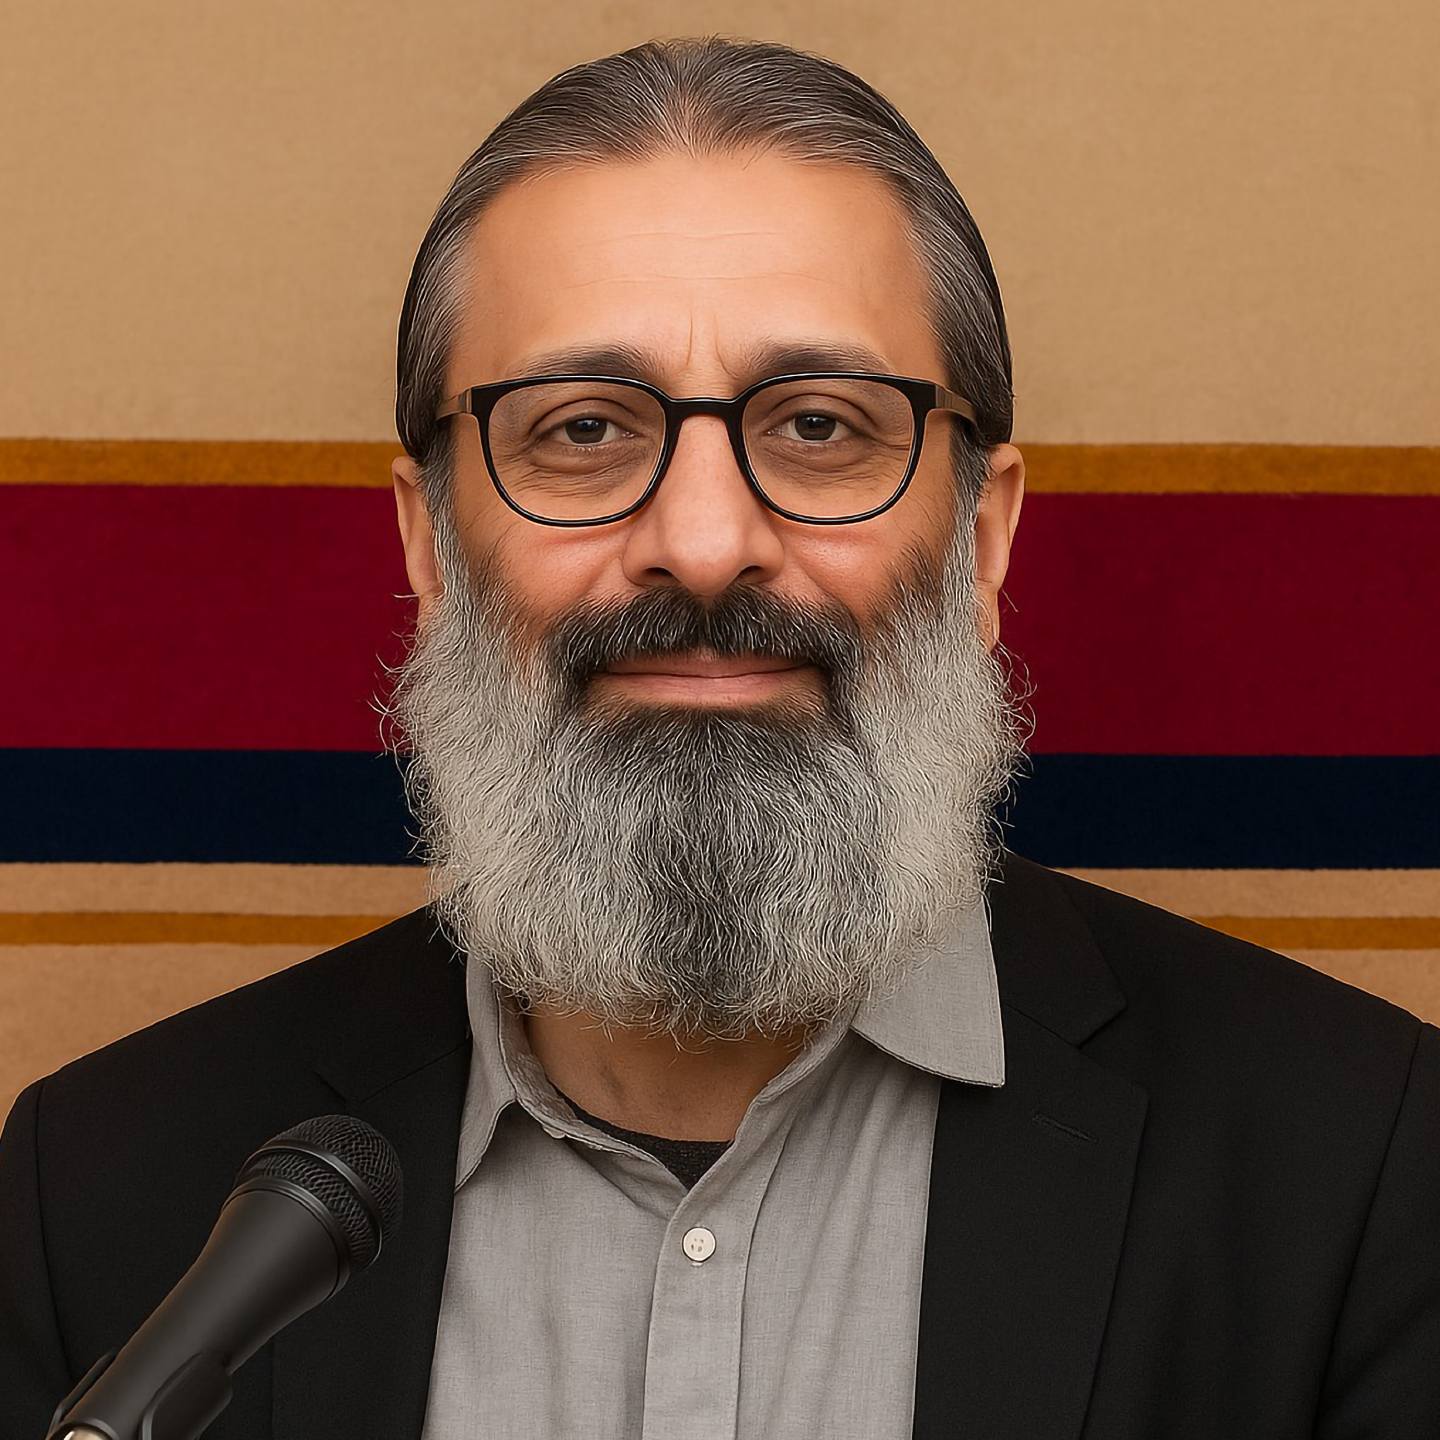
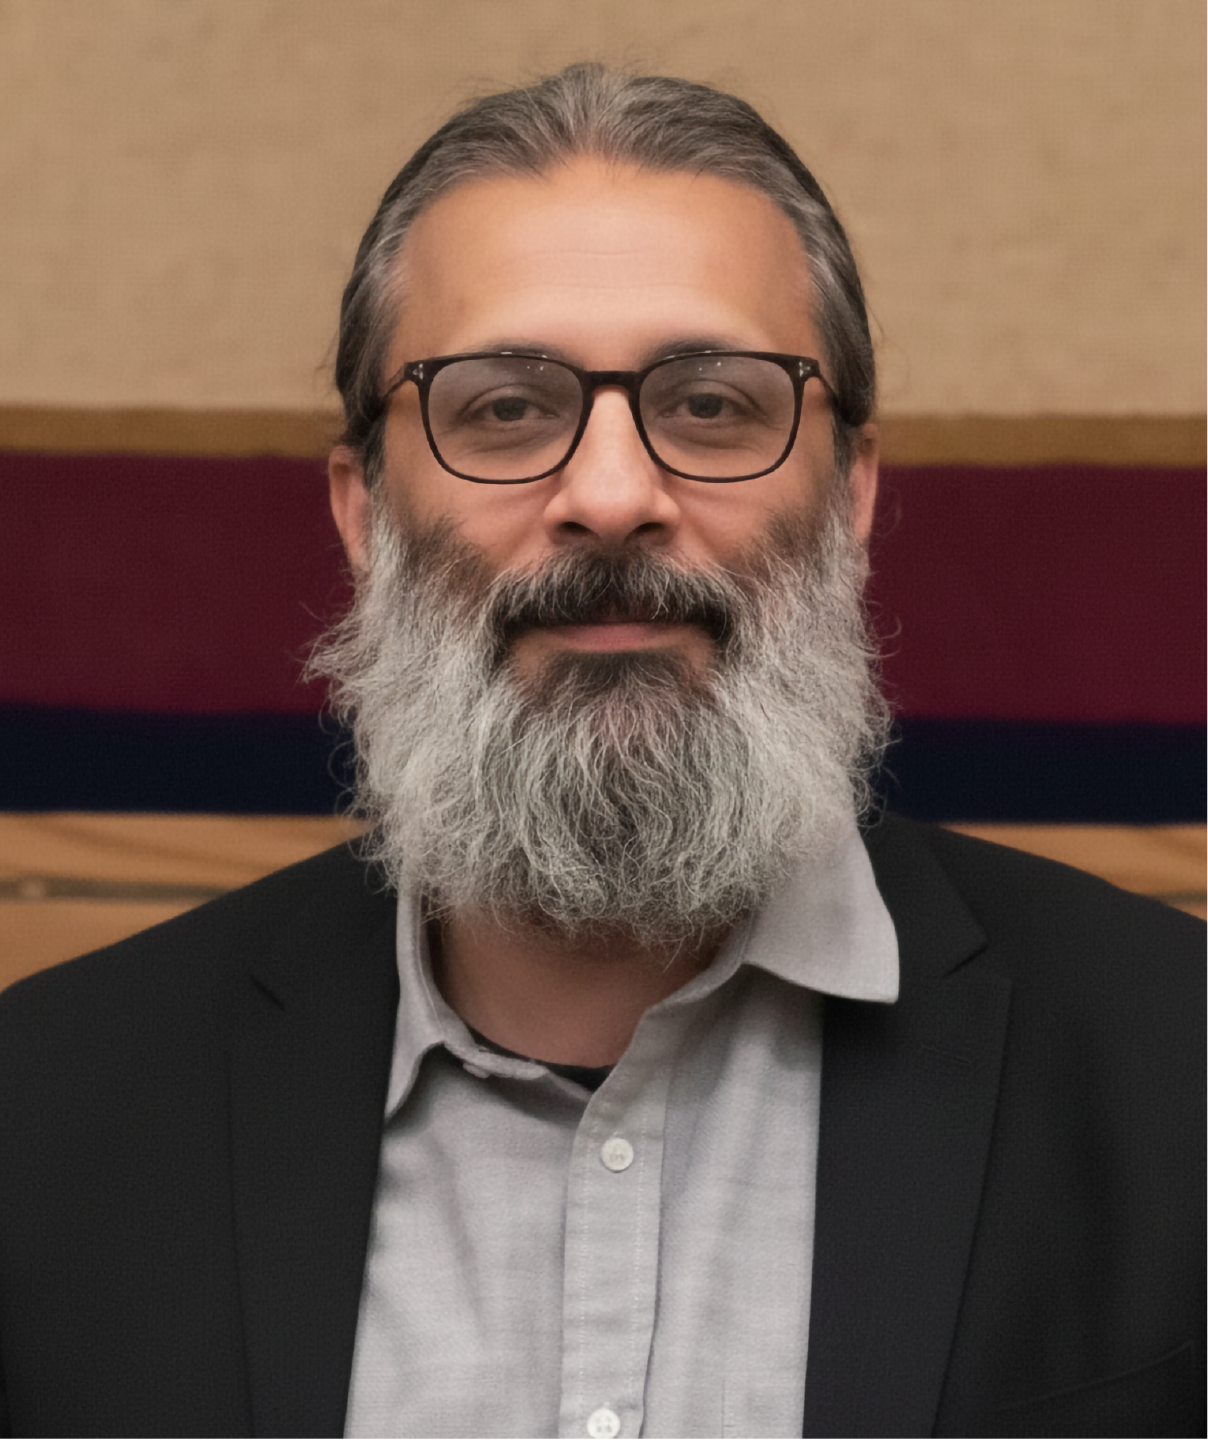
updated settings

diff --git a/app/team/[slug]/page.tsx b/app/team/[slug]/page.tsx
@@ -7,7 +7,7 @@ const team = [
     slug: "dr-muhammad-faisal-khan",
     name: "Dr. Muhammad Faisal Khan",
     role: "CEO",
-    image: "/leadership/CEO.png",
+    image: "/leadership/CEO.webp",
     intro: `Dr. Muhammad Faisal Khan is a highly accomplished and experienced technology innovator. He is a seasoned entrepreneur, who sequentially co-founded TeReSol and KRTECH Private Limited, Pakistan; both research-based organizations. Dr. Khan has been leading the companies as Chief Executive Officer since 2017. Prior to founding TeReSol, Dr. Khan also served as an Assistant Professor at the National University of Sciences and Technology (NUST) from February 2009 to April 2014. <br /><br />
 Currently Dr. Khan is heading workforce of more than 400 Engineers and 20 PhDs. He specializes in hardware and software architecture designing, embedded systems, signal analysis, system integration (mechanical and electrical) and image processing. Dr. Khan's expertise and commitment have been instrumental in positioning TeReSol as a leader in open architecture computing and electronic systems for aerospace, defense, and industrial applications. His team has successfully produced six top of the line products for defense as well as private sector under his dynamic lead. Under his leadership, TeReSol has been recognized as a fast-growing R&D company, notably being featured in the Japan International Cooperation Agency's (JICA) report highlighting Pakistan as 'the next ICT powerhouse'. <br /><br />
 Dr. Khan is also the member of National Committee on Research & Development, R&D Division, Higher Education Commission, Government of Pakistan and has been awarded RCCI ICT Company of the Year 2015 as well as P@SHA Award for health and wellbeing sector 2016 in Pakistan.
@@ -21,7 +21,7 @@ Dr. Muhammad Faisal Khan is a published author with over twelve internationally 
     slug: "dr-naveed-iqbal",
     name: "Dr. Naveed Iqbal",
     role: "COO",
-    image: "/leadership/COO.webp",
+    image: "/leadership/COO1.webp",
     intro: `Dr Naveed is a serial entrepreneur, with an acumen of designing innovatively creative products. He has served as VP engineering for a decade and was responsible for transformation of user idea into a high-level product design and its translation into product features; selection of available technology; supervise and guide teams while making “product development plan” and designing & testing of core algorithms; etc. Presently, he is managing operations of 400+ engineers team in multiple cities and countries as COO.<br /><br />
 Dr Naveed has served as teaching & research faculty in Military College of Signals (A constituent College of NUST) 2007 till 2020. During these years, he taught various subjects related to Advance Signal & Image Processing, supervised MS & PhD students in this domain. Moreover, he served as Head of Computer Software Engineering department for two years and supervised academic management of more than 300 students. During this time, he established a national research center in field of Image Processing Center with funding of Ministry of Sciences and Technology Pakistan, won and completed multiple national & international academic research fundings including from DaaD (Germany) for many years, represented Pakistan in various academic events under Higher Education Commission of Pakistan banner etc.<br /><br />
 In 2010, Dr Naveed was selected by US Department of Commerce (through their Commercial Law Development Program - CLDP program) as top ten emerging academic entrepreneurs from Pakistan for Professional Entrepreneurship training at USA and have worked with many US AIDS program and been referred as a success story many times.<br /><br />

diff --git a/app/careers/apply/[jobId]/page.tsx b/app/careers/apply/[jobId]/page.tsx
@@ -2,6 +2,7 @@
 import Header from "@/components/Header"; // Assuming Header is in components/Header
 import Footer from "@/components/Footer"; // Assuming Footer is in components/Footer
 import JobApplicationPage from "@/components/JobApplicationPage"; // The client component you created
+import AdminHeader from "@/components/AdminHeader";
 
 /**
  * Defines the props received by the dynamic Next.js Page component.
@@ -59,7 +60,7 @@ export default async function ApplicationPage({
   // ✅ Render the page normally
   return (
     <div className="bg-gray-50 min-h-screen">
-      <Header />
+      <AdminHeader showBackButton/>
       <main className="py-12">
         {/* 3. Render the client component, passing the validated props.
             The complex form logic resides entirely within JobApplicationPage.

diff --git a/components/AboutPageClient.tsx b/components/AboutPageClient.tsx
@@ -13,7 +13,7 @@ export default function AboutPageClient() {
       name: "Dr. Muhammad Faisal Khan",
       role: "Chief Executive Officer",
       // image: "/leadership/CEO.png",
-      image: "/leadership/1.webp",
+      image: "/leadership/CEO.webp",
 
     },
     {
@@ -21,7 +21,7 @@ export default function AboutPageClient() {
       name: "Dr. Naveed Iqbal",
       role: "Chief Operating Officer",
       // image: "/leadership/COO.webp",
-      image: "/leadership/3.webp",
+      image: "/leadership/COO1.webp",
 
     },
     {
